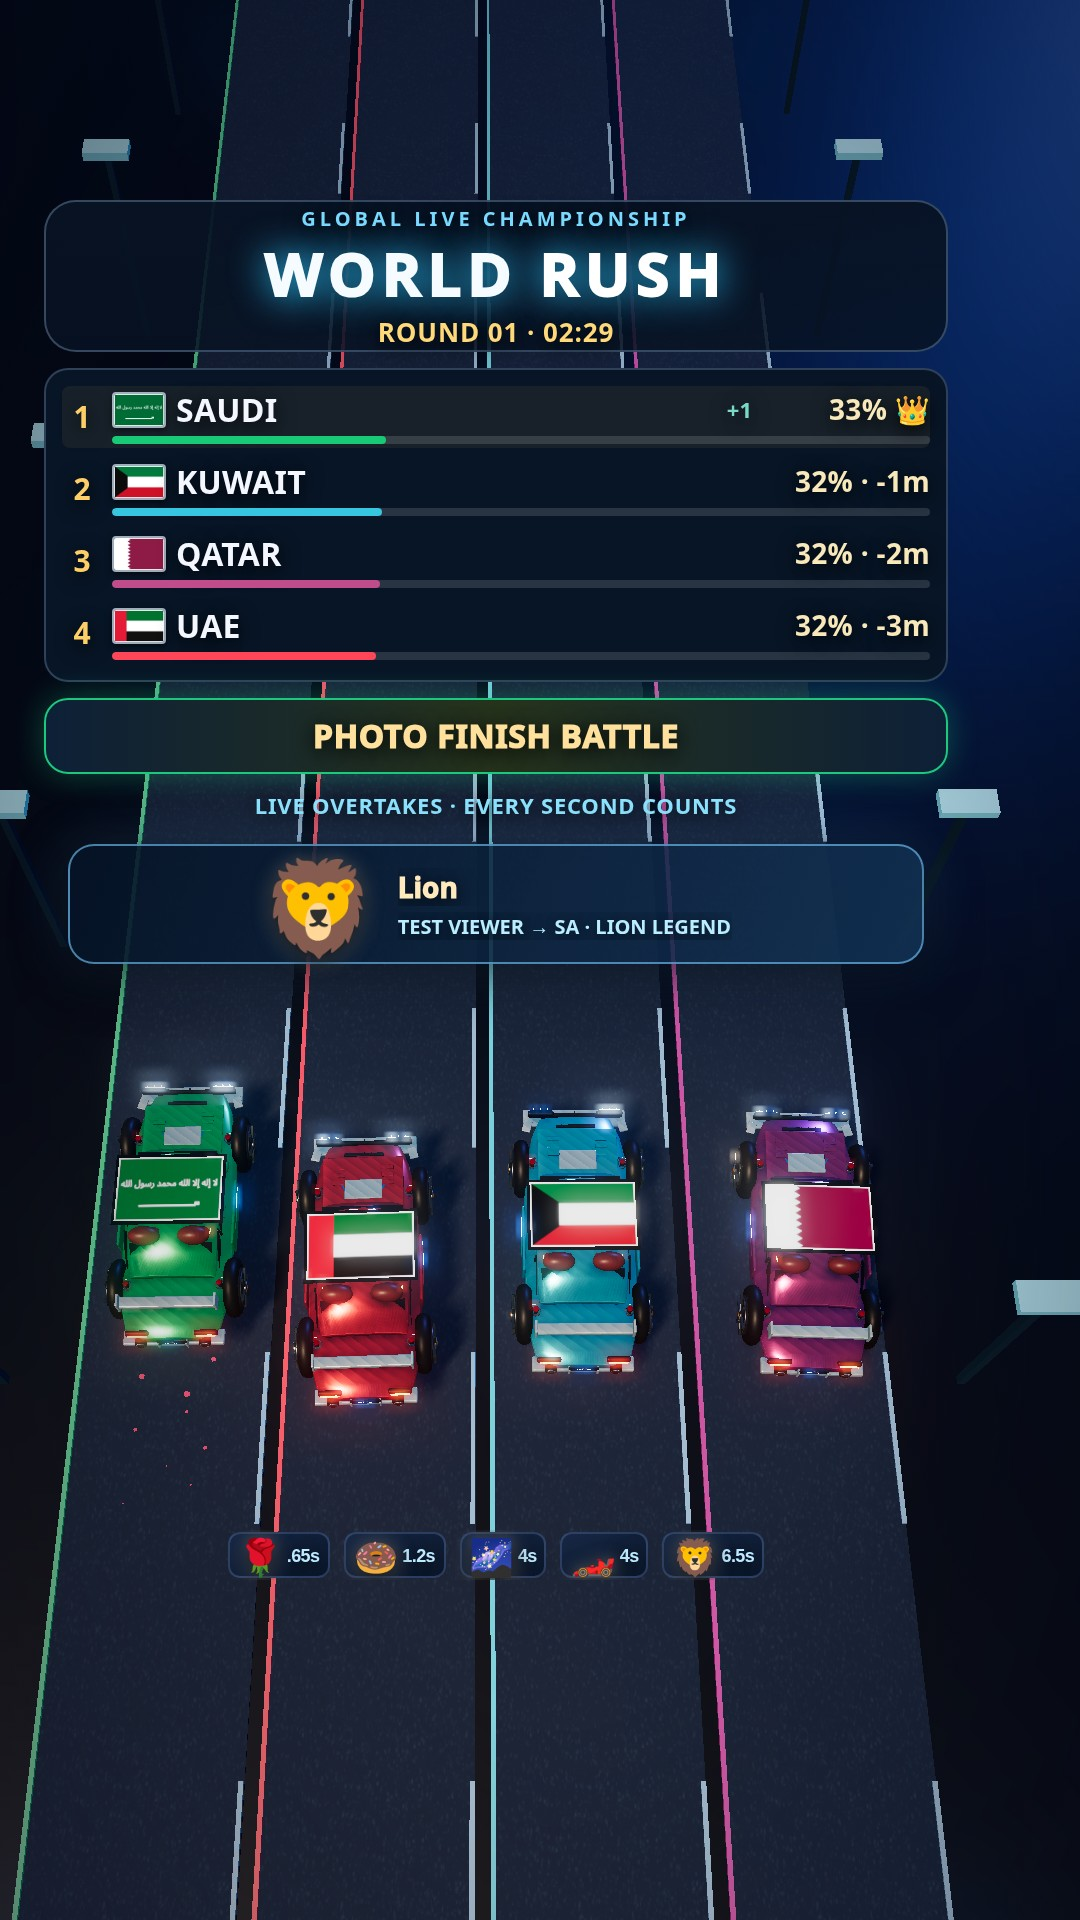
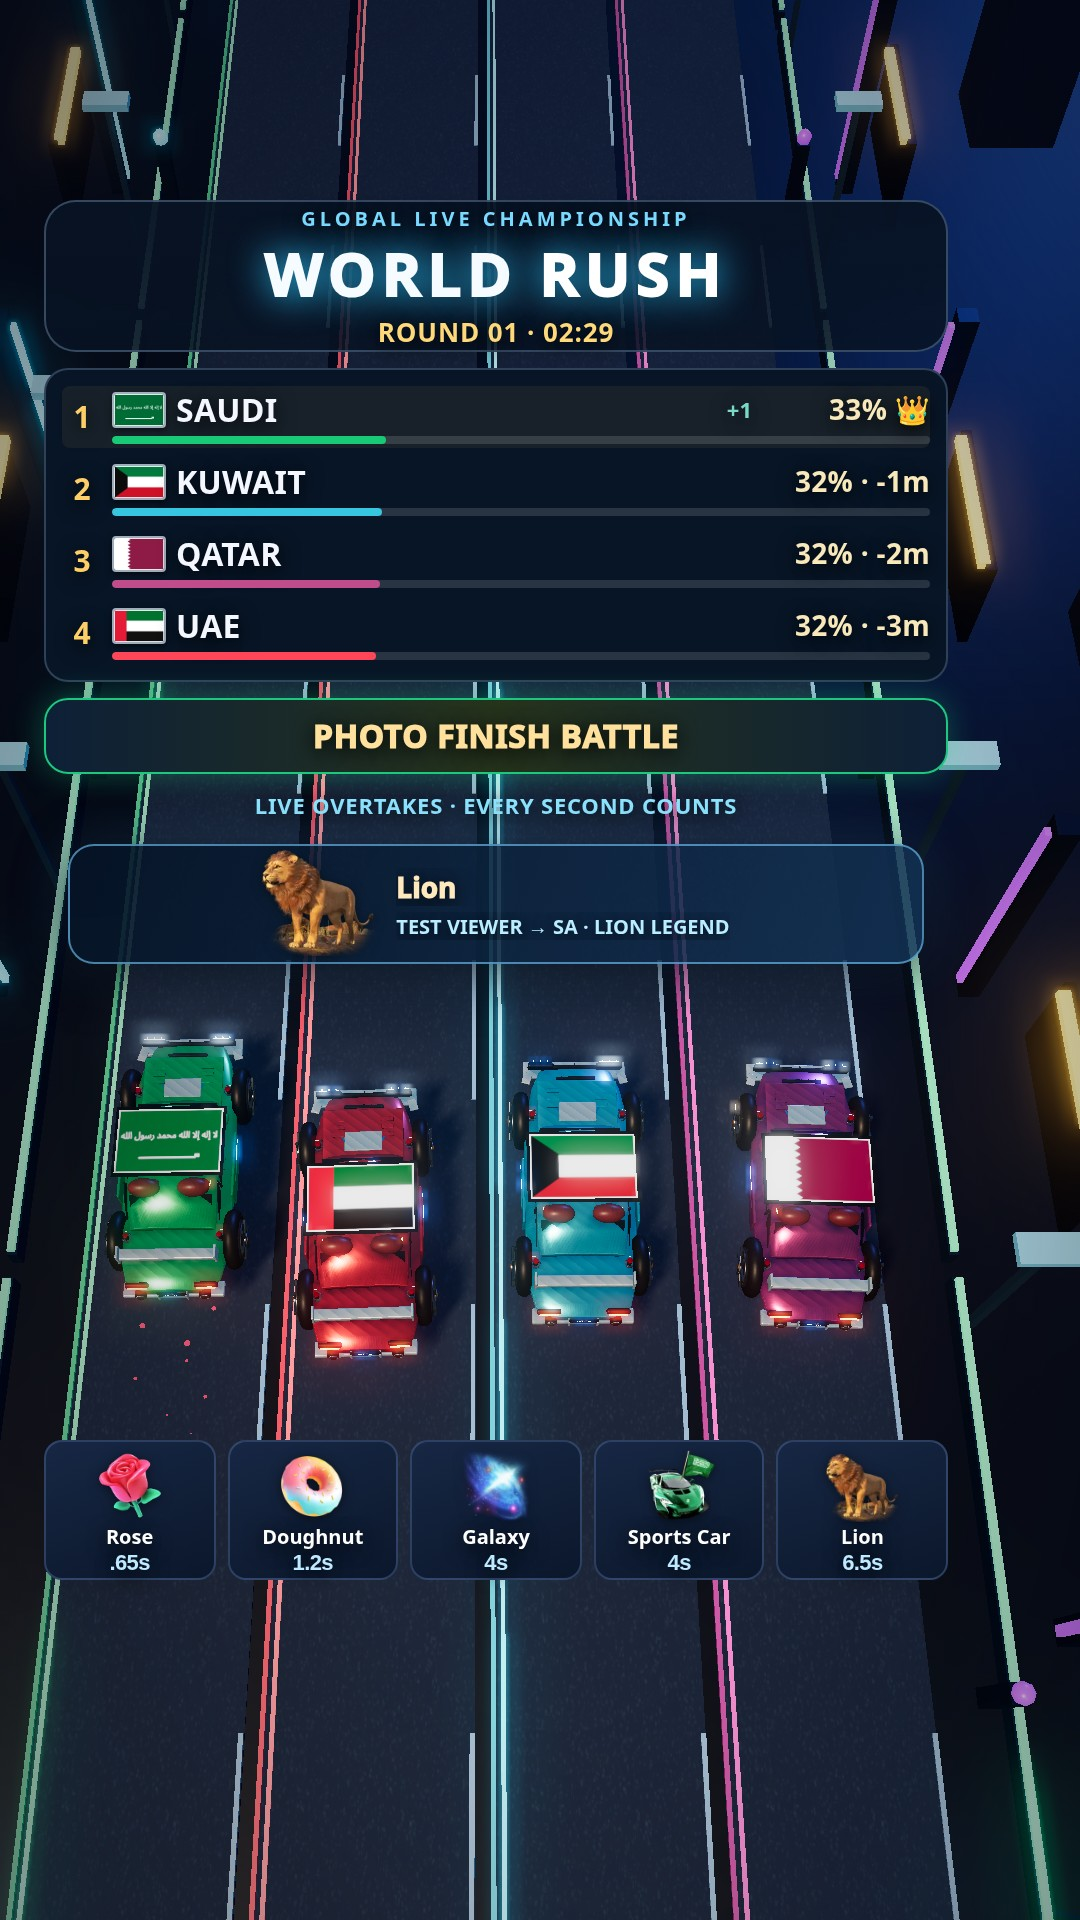
Restore trackside scenery and show original TikTok gift artwork

diff --git a/index.html b/index.html
@@ -183,12 +183,23 @@ html.stream-source,html.stream-source body{overflow:hidden}
 #app.stream-mode .giftBubble{padding:1px 4px;gap:2px}
 #app.stream-mode #soundUnlock{display:none!important}
 
+
+/* Large, original TikTok artwork with readable gift names and boost durations. */
+#app.portrait-layout #giftGuide{height:70px;gap:6px;overflow:visible}
+#app.portrait-layout .giftBubble{height:70px;flex:1;min-width:0;max-width:86px;display:flex;flex-direction:column;gap:1px;padding:4px;border-radius:9px}
+#app.portrait-layout .giftArt{width:36px;height:36px;flex:none}
+#app.portrait-layout .giftEmoji{font-size:32px;height:36px}
+.giftName{font-size:10px;line-height:12px;color:#fff;font-weight:800;white-space:nowrap}
+#app.portrait-layout .giftPower{font-size:11px;line-height:13px}
+#app.portrait-layout #giftMoment .giftArt{width:56px;height:56px}
+#app.portrait-layout #giftMoment .giftEmoji{font-size:46px}
+
 </style></head><body><main id="app" class="booting broadcast-safe portrait-layout"><div id="stage"></div><div id="bootScreen"><div class="bootLogo">WORLD <span>RUSH</span></div><div class="bootCaption">PREPARING THE START GRID</div></div><div id="overlay"></div><div id="hud"><div id="topStack"><header><small>GLOBAL LIVE CHAMPIONSHIP</small><h1>WORLD <span>RUSH</span></h1><div id="meta">R01 · 03:30</div></header><div id="rank"></div><div id="raceProgress"><div id="progressLabel"><strong id="distance">260m LEFT</strong><div id="battle">RACE STARTING</div><div id="countdown">LIVE RACE</div></div><div id="joinHint">COMMENT SA / AE / KW / QA TO JOIN A TEAM · FREE</div>
-<div id="giftGuide" hidden aria-label="Hediye efektleri"><span class="giftBubble" data-gift-key="Rose"><span class="giftEmoji">🌹</span><img class="giftArt" hidden alt=""><span class="giftPower">.65s</span></span>
-<span class="giftBubble" data-gift-key="Doughnut"><span class="giftEmoji">🍩</span><img class="giftArt" hidden alt=""><span class="giftPower">1.2s</span></span>
-<span class="giftBubble" data-gift-key="Galaxy"><span class="giftEmoji">🌌</span><img class="giftArt" hidden alt=""><span class="giftPower">4s</span></span>
-<span class="giftBubble" data-gift-key="Sports Car"><span class="giftEmoji">🏎</span><img class="giftArt" hidden alt=""><span class="giftPower">4s</span></span>
-<span class="giftBubble" data-gift-key="Lion"><span class="giftEmoji">🦁</span><img class="giftArt" hidden alt=""><span class="giftPower">6.5s</span></span></div>
+<div id="giftGuide" hidden aria-label="Hediye efektleri"><span class="giftBubble" data-gift-key="Rose"><span class="giftEmoji">🌹</span><img class="giftArt" hidden alt=""><span class="giftName">Rose</span><span class="giftPower">.65s</span></span>
+<span class="giftBubble" data-gift-key="Doughnut"><span class="giftEmoji">🍩</span><img class="giftArt" hidden alt=""><span class="giftName">Doughnut</span><span class="giftPower">1.2s</span></span>
+<span class="giftBubble" data-gift-key="Galaxy"><span class="giftEmoji">🌌</span><img class="giftArt" hidden alt=""><span class="giftName">Galaxy</span><span class="giftPower">4s</span></span>
+<span class="giftBubble" data-gift-key="Sports Car"><span class="giftEmoji">🏎</span><img class="giftArt" hidden alt=""><span class="giftName">Sports Car</span><span class="giftPower">4s</span></span>
+<span class="giftBubble" data-gift-key="Lion"><span class="giftEmoji">🦁</span><img class="giftArt" hidden alt=""><span class="giftName">Lion</span><span class="giftPower">6.5s</span></span></div>
 <div id="progressTrack"><div id="progressFill"></div><span class="trackCar" id="trackCar0" style="top:1px;background:#ff3656;color:#ff3656"></span><span class="trackCar" id="trackCar1" style="top:4px;background:#16cb77;color:#16cb77"></span><span class="trackCar" id="trackCar2" style="top:7px;background:#349aff;color:#349aff"></span><span class="trackCar" id="trackCar3" style="top:10px;background:#ffc12f;color:#ffc12f"></span><div id="finishMark"></div></div></div></div><div id="event" aria-live="polite"></div><div id="startCountdown" aria-live="polite" hidden>3</div><div id="comeback" hidden></div><div id="teamToast" hidden aria-live="polite"></div><div id="giftMoment" hidden aria-live="polite"></div></div>
 <div id="quickControls"><button class="btn" data-action="join">💬 JOIN</button><button class="btn" data-action="rose">🌹 ROSE</button><button class="btn" data-action="turbo">⚡ TURBO</button><button class="btn" data-action="mega">🌟 MEGA</button><button class="btn" data-action="cam">🎥 CAMERA</button></div>
 <button id="soundUnlock" type="button">🔊 SESİ AÇ / TAP FOR SOUND</button>
@@ -255,10 +266,6 @@ for(let z=-85;z<=48;z+=12){
    const signLight=new THREE.Mesh(new THREE.BoxGeometry(.20,.13,3.2),goldGlow);signLight.position.set(side*8.98,4.5,z+4.5);arena.add(signLight);
  }
 }
-for(let z=-78;z<=40;z+=24){
- const bridge=box(18.9,.32,.36,0x162d4a,.7,.35);bridge.position.set(0,6,z);arena.add(bridge);
- const glow=new THREE.Mesh(new THREE.BoxGeometry(17.5,.08,.42),neonMat(0x18dfff));glow.position.set(0,5.79,z);arena.add(glow);dominationMaterials.push(glow.material);
-}
 for(let n=0;n<32;n++){
  const side=n%2?-1:1;const z=-95+n*4.6;const h=4+(n*13%11);
  const tower=box(2.2,h,2.3,n%3===0?0x182441:0x0d1930,.4,.6);tower.position.set(side*(14+(n%4)*2),h/2-1,z);arena.add(tower);
@@ -280,7 +287,7 @@ for(let z=-72;z<38;z+=18){
   beacon.position.set(side*7.9,1.64,z);accents.add(beacon);
  }
 }
-arena.visible=false;accents.visible=false;
+
 const effectParticles=[];
 const particleGeo=new THREE.SphereGeometry(.065,5,4);
 for(let i=0;i<4;i++){
@@ -786,9 +793,16 @@ function recordWorldResults(orderedCars){
 let connectedToLive=false,tiktokStreamOnline=false,liveSocket=null,liveReconnect=0;
 const pendingByCountry=Object.create(null);
 
-// Genuine TikTok artwork is supplied by the connected LIVE gift catalog/event.
-// Preview falls back to universally legible emoji; never invents gift receipts.
-const giftArtworkURLs=new Map();
+// Artwork is decorative. Gift receipts and boosts come from received events.
+// Public TikTok CDN artwork listed by StreamToEarn. LIVE metadata takes precedence.
+const giftArtworkURLs=new Map(Object.entries({
+  "Rose": "https://p16-webcast.tiktokcdn.com/img/maliva/webcast-va/eba3a9bb85c33e017f3648eaf88d7189~tplv-obj.webp",
+  "Doughnut": "https://p16-webcast.tiktokcdn.com/img/maliva/webcast-va/4e7ad6bdf0a1d860c538f38026d4e812~tplv-obj.webp",
+  "Galaxy": "https://p16-webcast.tiktokcdn.com/img/maliva/webcast-va/resource/79a02148079526539f7599150da9fd28.png~tplv-obj.webp",
+  "Sports Car": "https://p16-webcast.tiktokcdn.com/img/maliva/webcast-va/resource/201304005bf8f86b533b97ffa88f1abe.png~tplv-obj.webp",
+  "Lion": "https://p16-webcast.tiktokcdn.com/img/maliva/webcast-va/4fb89af2082a290b37d704e20f4fe729~tplv-obj.webp"
+}));
+
 const giftEmojiByName={'Rose':'🌹','Finger Heart':'🫰','Doughnut':'🍩',
  'Money Gun':'🔫','Galaxy':'🌌','Sports Car':'🏎','Lion':'🦁','Universe':'🌠'};
 let giftMomentUntil=0;
@@ -838,6 +852,7 @@ function updateGiftGuideArt(){
   img.src=url;
  }
 }
+updateGiftGuideArt();
 function addGiftArtwork(giftName,url){
  const key=canonicalGiftKey(giftName),safe=safeGiftArtwork(url);
  if(key&&safe){giftArtworkURLs.set(key,safe);updateGiftGuideArt()}
@@ -1145,7 +1160,7 @@ function framePortraitRace(){
  }
  // Fit the pack between the score panel and TikTok's comment area.
  const bounds=streamMode
-  ?{left:22,right:474,top:476,bottom:758}
+  ?{left:22,right:474,top:476,bottom:710}
   :{left:24.3,right:515.7,top:408,bottom:801.6};
  const targetWidth=(bounds.right-bounds.left)/270*portraitArea.width;
  const targetHeight=(bounds.bottom-bounds.top)/480*portraitArea.height;
@@ -1250,7 +1265,7 @@ function loop(now){
    joinHint.hidden=showGiftGuide;
    joinHint.classList.toggle('following',showFollow);
    joinHint.textContent=showFollow
-    ?"FOLLOW @worldrush.live · NEXT COUNTRY LEAGUE"
+    ?"FOLLOW FOR THE NEXT COUNTRY LEAGUE"
     :'COMMENT '+codes.join(' / ')+' TO JOIN A TEAM · FREE';
   }
   const battleEl=document.getElementById('battle');

diff --git a/YAYIN_KURULUMU.md b/YAYIN_KURULUMU.md
@@ -36,7 +36,7 @@ Sistem Chromium'u kullanmak için `WORLD_RUSH_CHROMIUM` ortam değişkenine çal
 **LIVE Studio erişimi olmadan telefon ekranını yayınlamak için:**
 
 1. PC'de WORLD RUSH sunucusu (`python -m http.server 8000`) açık kalmalı; iPhone Safari'de `http://192.168.1.187:8000/index.html` açılır.
-2. PC'de GitHub'daki son sürümü çek ve **START_TIKTOK_BRIDGE.cmd** dosyasını aç. TikTok kullanıcı adı `worldrush.live` için Enter'a bas. Bu sürüm, TikTok yorum ve hediye olaylarını **yalnızca PC'nin 192.168.1.187 özel Wi-Fi IP adresinde** de dinler.
+2. PC'de GitHub'daki son sürümü çek ve **START_TIKTOK_BRIDGE.cmd** dosyasını aç. Mevcut TikTok kullanıcı adını gir. Bu sürüm, TikTok yorum ve hediye olaylarını **yalnızca PC'nin 192.168.1.187 özel Wi-Fi IP adresinde** de dinler.
 3. Windows Güvenlik Duvarı izin isterse yalnızca **Özel ağlar (Private)** seç. Genel ağlara (Public) açma, port yönlendirme (port forwarding) yapma.
 4. TikTok'ta iPhone → LIVE → Mobile Gaming → Go LIVE, ardından Safari'deki WORLD RUSH ekranına dön.
 5. **Bağlantı testi:** iPhone'da önce `http://192.168.1.187:8000/index.html?debug=1` aç. LIVE başlamadan `BRIDGE ON · WAITING FOR TIKTOK`, LIVE başladıktan sonra `TIKTOK CONNECTED · TEST EVENTS` görünmesi beklenir. Yayına geçerken `?debug=1` parametresini kaldır; debug yazısı izleyicilere görünmesin.
@@ -87,3 +87,9 @@ Gerçek hediye kataloğunu LIVE Gift ekranından kontrol et. Oyunda normal sayfa
 - Yerel WebSocket `127.0.0.1:8765` yalnızca aynı bilgisayarda açılan localhost sayfasına hizmet eder. Başka sunucuya veya internete açılmamalı.
 - LIVE Studio Link kaynağının sesini tarayıcı otomatik oynatma politikası engelleyebilir. Ses çıkışını mobil önizlemede test et; gerekirse temiz Chrome uygulama penceresini kullan ve `M` ile sesi etkinleştir.
 - TikTok'un resmi etkileşimli oyun iş ortaklığı başvurusu: https://cp-game.tiktok.com/interactive-game-registration
+
+## Güncel hesap ve hediye görselleri
+
+Ekrandaki eski @kullanıcı adı kaldırıldı. Köprü başlatılırken mevcut TikTok kullanıcı adını gir. Boş bırakıldığında eski hesaba bağlanmayı denemez.
+
+Pist kenarlarındaki neon bariyerler, sütunlar ve dış yapılar geri açıldı. Büyük hediye kartları Rose, Doughnut, Galaxy, Sports Car ve Lion görsellerini doğrudan TikTok CDN'inden yükler. Kaynak ve 106 bölge karşılaştırması [hediye görsel raporunda](screenshots/gift-artwork-sources.md) bulunur.

diff --git a/screenshots/gift-artwork-sources.md b/screenshots/gift-artwork-sources.md
@@ -1,0 +1,21 @@
+# Hediye görselleri ve bölge kontrolü
+
+18 Kasım 2026 tarihinde StreamToEarn sayfasındaki 106 bölge bağlantısı karşılaştırıldı. Rose, Doughnut, Galaxy, Sports Car ve Lion listelerin tamamında bulundu. Bu gözlem üçüncü taraf kataloğa dayanır. TikTok'un her hesap ve gelecekteki her yayın için aynı kataloğu sunacağını garanti etmez.
+
+Kaynak https://streamtoearn.io/tr/gifts
+
+Kılavuz bu beş hediyeyi gösterir. Her kartta özgün TikTok görseli, adı ve temel boost süresi bulunur. Görseller TikTok CDN'inden yüklenir. Canlı hediye kataloğu veya olayındaki görsel önceliklidir. Görsel yüklenemezse emoji yedeği görünür.
+
+| Hediye | Temel boost | TikTok CDN görseli |
+| --- | --- | --- |
+| Rose | 0,65 sn | [Görsel](https://p16-webcast.tiktokcdn.com/img/maliva/webcast-va/eba3a9bb85c33e017f3648eaf88d7189~tplv-obj.webp) |
+| Doughnut | 1,2 sn | [Görsel](https://p16-webcast.tiktokcdn.com/img/maliva/webcast-va/4e7ad6bdf0a1d860c538f38026d4e812~tplv-obj.webp) |
+| Galaxy | 4 sn | [Görsel](https://p16-webcast.tiktokcdn.com/img/maliva/webcast-va/resource/79a02148079526539f7599150da9fd28.png~tplv-obj.webp) |
+| Sports Car | 4 sn | [Görsel](https://p16-webcast.tiktokcdn.com/img/maliva/webcast-va/resource/201304005bf8f86b533b97ffa88f1abe.png~tplv-obj.webp) |
+| Lion | 6,5 sn | [Görsel](https://p16-webcast.tiktokcdn.com/img/maliva/webcast-va/4fb89af2082a290b37d704e20f4fe729~tplv-obj.webp) |
+
+Efekt gücü gelen hediyenin gerçek metadata puanından hesaplanır. Bölgesel fiyatlar sabitlenmez. Sports Car için listede 4999 puan görülür, eski 7000 puanlık test de aynı 4 saniyelik aralığa düşer. Katılım yorumu ve boost üst sınırları mevcut kuralları kullanır.
+
+Kontrol edilen bölge kodları
+
+AE, AM, AR, AT, AU, AZ, BA, BE, BG, BH, BO, BR, BY, CA, CH, CL, CM, CO, CR, CY, CZ, DE, DK, DO, DZ, EC, EE, EG, ES, FI, FR, GB, GE, GF, GR, GT, HK, HN, HR, HU, ID, IE, IL, IN, IQ, IT, JM, JO, JP, KG, KR, KW, KZ, LB, LC, LK, LT, LV, LY, MA, MD, MK, ML, MQ, MV, MX, MY, NI, NL, NO, NP, NZ, OM, PA, PE, PH, PK, PL, PR, PS, PT, PY, QA, RO, RS, SA, SE, SG, SI, SK, SR, SV, TH, TN, TR, TT, TW, TZ, UA, UK, US, UY, VE, VN, XK, ZA

diff --git a/screenshots/live-validation.md b/screenshots/live-validation.md
@@ -15,7 +15,7 @@
 | Ses motoru | Otomatik oynatma izni verilen tarayıcıda AudioContext running |
 | JavaScript | Testlerde sayfa hatası oluşmadı |
 
-Görüntüler doğrudan tarayıcı ekran görüntüleridir. Çizim tamponu boyutu kaynak çözünürlüğüyle aynı ölçüldü. HUD ve araç kutuları mantıksal 540×960 koordinatlara dönüştürülüp sınır denetiminden geçirildi. Test edilen kamera ve yarış durumlarında araç genişlikleri yaklaşık 67–118 mantıksal piksel arasındaydı.
+Görüntüler doğrudan tarayıcı ekran görüntüleridir. Çizim tamponu boyutu kaynak çözünürlüğüyle aynı ölçüldü. HUD ve araç kutuları mantıksal 540×960 koordinatlara dönüştürülüp sınır denetiminden geçirildi. Test edilen kamera ve yarış durumlarında araç genişlikleri yaklaşık 56–118 mantıksal piksel arasındaydı.
 
 Test hızlandırılmış oyun adımlarıyla gerçek oyun mantığını çalıştırır. Ara karelerde GPU çizimi atlanır, kontrol karelerinde gerçek WebGL çıktısı kaydedilir. WebSocket olayları test tarafından üretilir.
 
@@ -34,3 +34,5 @@ Repo kökünde `npm ci`, `npx playwright install chromium`, `npm run test:live` 
 ## Windows üzerinde kalan kontroller
 
 Kullanıcının TikTok LIVE Studio sahnesine erişilmedi. Studio'nun gerçek dönüşümü, kişiye özel TikTok katmanları, gerçek yayın sesinin yakalanması ve gerçek TikTok hediye bağlantısı burada doğrulanamadı. Bu testler 60 FPS sonucunu ölçmez. Güvenli alanlar üstte 100, sağda 66, altta 170 mantıksal piksel varsayımıyla düzenlendi. Studio önizlemesiyle kontrol edilmelidir. Windows komut dosyaları Linux ortamında çalıştırılmadı.
+
+Son görsel güncellemesinde özgün TikTok CDN resimlerinin beş kartta yüklenmesi de otomatik kontrol edildi. Neon yan süslemeleri ve büyütülmüş hediye kartlarıyla üç çözünürlükte testler tekrar çalıştırıldı.
